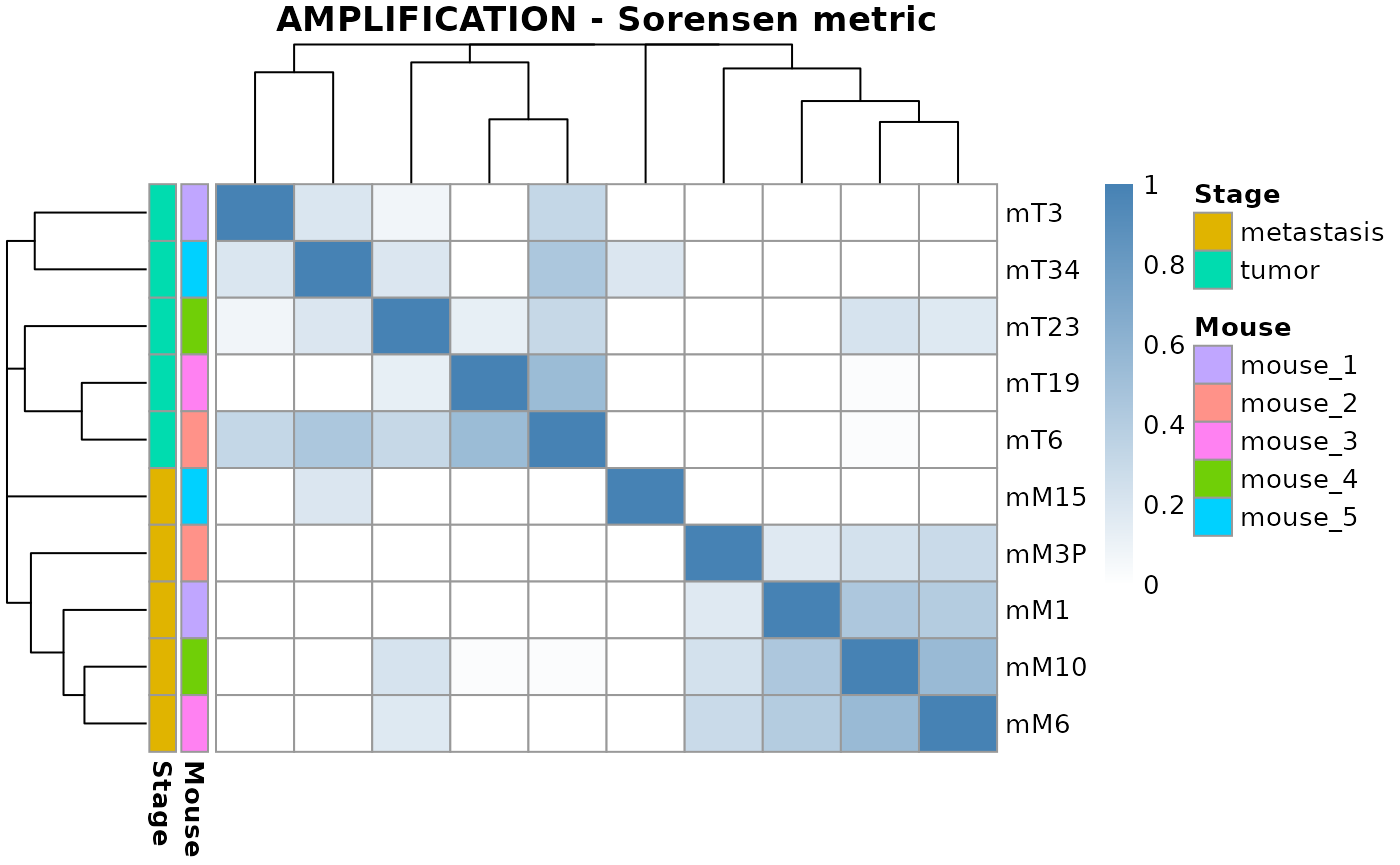
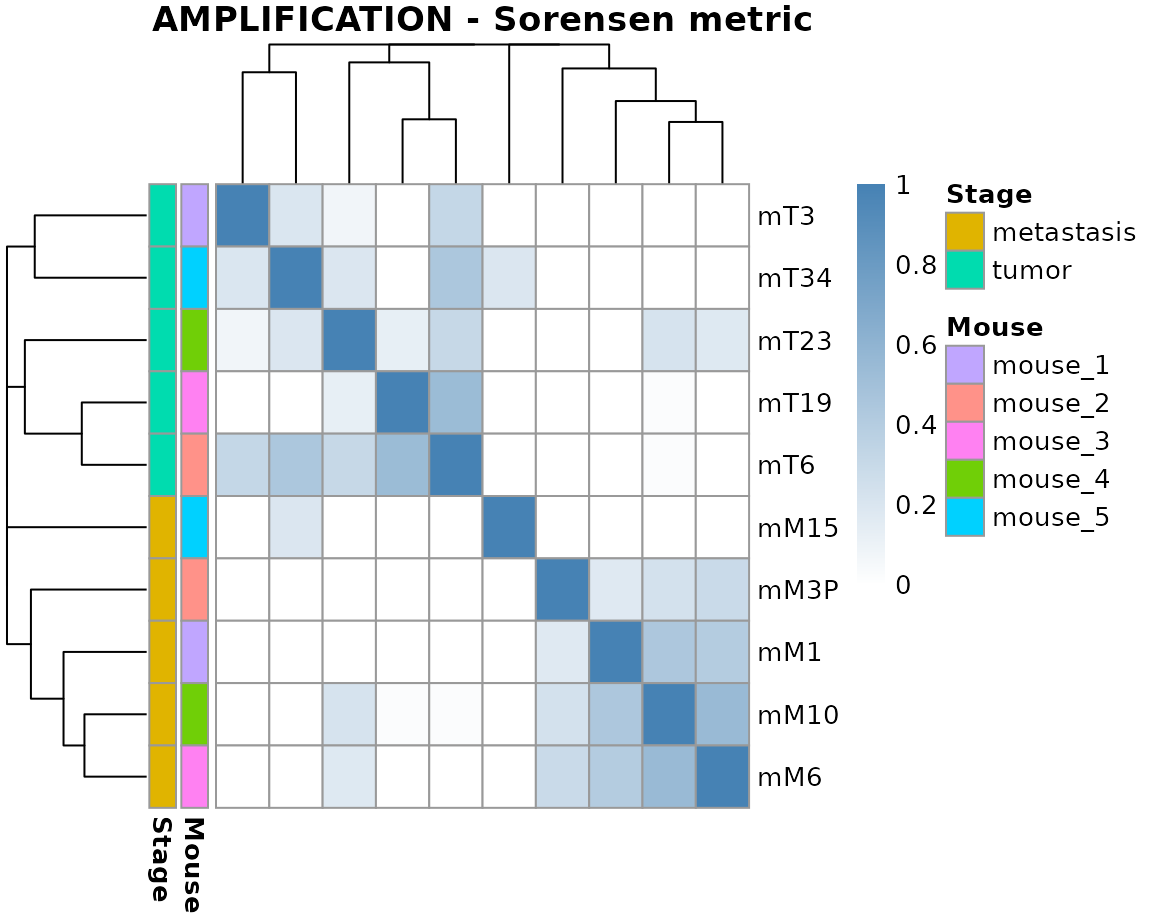
Built site for CNVMetrics: 0.1.4@5b99e40

Changed region(s): [[0.0, 0.0, 1.0, 0.9988], [0.8125, 0.6555, 0.8438, 0.6867]]

diff --git a/articles/CNVMetrics.html b/articles/CNVMetrics.html
@@ -84,7 +84,7 @@
 
     
     
-<p><br><strong>Package</strong>: <em>CNVMetrics</em><br><strong>Authors</strong>: Astrid Deschênes [aut, cre] (<a href="https://orcid.org/0000-0001-7846-6749" class="uri">https://orcid.org/0000-0001-7846-6749</a>), Pascal Belleau [aut] (<a href="https://orcid.org/0000-0002-0802-1071" class="uri">https://orcid.org/0000-0002-0802-1071</a>), Alexander Krasnitz [aut]<br><strong>Version</strong>: 0.1.4<br><strong>Compiled date</strong>: 2021-03-12<br><strong>License</strong>: Artistic-2.0<br></p>
+<p><br><strong>Package</strong>: <em>CNVMetrics</em><br><strong>Authors</strong>: Astrid Deschênes [aut, cre] (<a href="https://orcid.org/0000-0001-7846-6749" class="uri">https://orcid.org/0000-0001-7846-6749</a>), Pascal Belleau [aut] (<a href="https://orcid.org/0000-0002-0802-1071" class="uri">https://orcid.org/0000-0002-0802-1071</a>), Alexander Krasnitz [aut]<br><strong>Version</strong>: 0.1.4<br><strong>Compiled date</strong>: 2021-03-16<br><strong>License</strong>: Artistic-2.0<br></p>
 <div id="licensing" class="section level1">
 <h1 class="hasAnchor">
 <a href="#licensing" class="anchor"></a>Licensing</h1>
@@ -117,6 +117,7 @@ Copy number profiles of two mouse metastatic pancreatic organoids (M10 and M30).
 <div class="sourceCode" id="cb2"><pre class="downlit sourceCode r">
 <code class="sourceCode R"><span class="co">## Load required package</span>
 <span class="kw"><a href="https://rdrr.io/r/base/library.html">library</a></span><span class="op">(</span><span class="va"><a href="https://devtools.r-lib.org/">devtools</a></span><span class="op">)</span>
+
 
 <span class="co">## Install the version v0.1.4 of CNVMetrics</span>
 <span class="co">## using 'ref' parameter</span>
@@ -161,7 +162,7 @@ Copy number profiles of two mouse metastatic pancreatic organoids (M10 and M30).
 </ul>
 <p>Segments with other <strong>state</strong> values can be present in the file. However, those segments won’t be retain for the calculation of the metrics.</p>
 <div class="figure" style="text-align: center">
-<img src="Input_CNfile_2_small.jpg" alt="Example of a copy number file containing CNV calls." width="95%"><p class="caption">
+<img src="Input_CNV_call_300ppi_v01.jpg" alt="Example of a copy number file containing CNV calls." width="100%"><p class="caption">
 Example of a copy number file containing CNV calls.
 </p>
 </div>
@@ -265,7 +266,7 @@ Example of a copy number file containing CNV calls.
 <div class="sourceCode" id="cb11"><pre class="downlit sourceCode r">
 <code class="sourceCode R"><span class="co">## Create graph for the metrics related to amplified regions</span>
 <span class="fu"><a href="../reference/plotOverlapMetric.html">plotOverlapMetric</a></span><span class="op">(</span><span class="va">metric</span>, type <span class="op">=</span> <span class="st">"AMPLIFICATION"</span><span class="op">)</span></code></pre></div>
-<p><img src="CNVMetrics_files/figure-html/demoPlot01-1.png" width="700" style="display: block; margin: auto;"></p>
+<p><img src="CNVMetrics_files/figure-html/demoPlot01-1.png" width="432" style="display: block; margin: auto;"></p>
 <p><br></p>
 <p><br></p>
 <p>The <code><a href="../reference/plotOverlapMetric.html">plotOverlapMetric()</a></code> function uses the <em><a href="https://CRAN.R-project.org/package=pheatmap">pheatmap</a></em> package to generate the graph. All arguments accepted by <code><a href="https://rdrr.io/pkg/pheatmap/man/pheatmap.html">pheatmap::pheatmap</a></code> function are valid arguments.</p>
@@ -278,7 +279,7 @@ Example of a copy number file containing CNV calls.
                     show_colnames<span class="op">=</span><span class="cn">TRUE</span>,
                     display_numbers<span class="op">=</span><span class="cn">TRUE</span>,
                     number_format<span class="op">=</span><span class="st">"%.2f"</span><span class="op">)</span></code></pre></div>
-<p><img src="CNVMetrics_files/figure-html/demoPlot02-1.png" width="700" style="display: block; margin: auto;"></p>
+<p><img src="CNVMetrics_files/figure-html/demoPlot02-1.png" width="460.8" style="display: block; margin: auto;"></p>
 <p><br></p>
 <p><br></p>
 <p>Row and/or column annotation is often useful and can easy by included with the <code>annotation_row</code> or <code>annotation_col</code> arguments, as described in the <code><a href="https://rdrr.io/pkg/pheatmap/man/pheatmap.html">pheatmap::pheatmap</a></code> method.</p>
@@ -303,7 +304,7 @@ Example of a copy number file containing CNV calls.
 <span class="fu"><a href="../reference/plotOverlapMetric.html">plotOverlapMetric</a></span><span class="op">(</span><span class="va">metric</span>, type <span class="op">=</span> <span class="st">"AMPLIFICATION"</span>, 
                     colorRange<span class="op">=</span><span class="fu"><a href="https://rdrr.io/r/base/c.html">c</a></span><span class="op">(</span><span class="st">"white"</span>, <span class="st">"steelblue"</span><span class="op">)</span>,
                     annotation_row<span class="op">=</span><span class="va">annotOrg</span><span class="op">)</span></code></pre></div>
-<p><img src="CNVMetrics_files/figure-html/demoPlot03-1.png" width="700" style="display: block; margin: auto;"></p>
+<p><img src="CNVMetrics_files/figure-html/demoPlot03-1.png" width="576" style="display: block; margin: auto;"></p>
 <p><br></p>
 </div>
 </div>
@@ -400,7 +401,7 @@ Example of a copy number file containing CNV calls.
 ## [7] knitr_1.31           BiocStyle_2.18.1    
 ## 
 ## loaded via a namespace (and not attached):
-##  [1] SummarizedExperiment_1.20.0 xfun_0.21                  
+##  [1] SummarizedExperiment_1.20.0 xfun_0.22                  
 ##  [3] lattice_0.20-41             colorspace_2.0-0           
 ##  [5] htmltools_0.5.1.1           rtracklayer_1.50.0         
 ##  [7] yaml_2.2.1                  XML_3.99-0.5               
@@ -418,7 +419,7 @@ Example of a copy number file containing CNV calls.
 ## [31] cachem_1.0.4                desc_1.3.0                 
 ## [33] XVector_0.30.0              farver_2.1.0               
 ## [35] systemfonts_1.0.1           fs_1.5.0                   
-## [37] Rsamtools_2.6.0             textshaping_0.3.1          
+## [37] Rsamtools_2.6.0             textshaping_0.3.2          
 ## [39] gridExtra_2.3               digest_0.6.27              
 ## [41] stringi_1.5.3               bookdown_0.21              
 ## [43] grid_4.0.3                  rprojroot_2.0.2            
